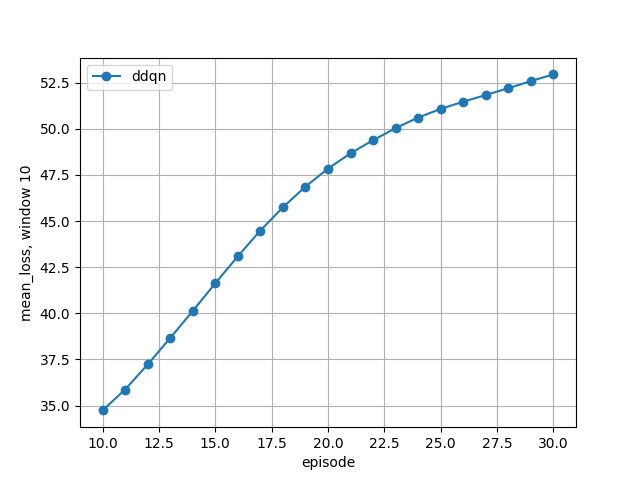
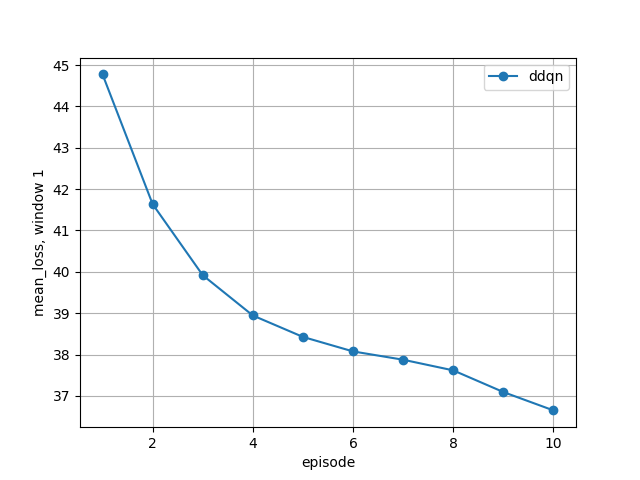
addressed divergence issue

diff --git a/rl/ddqn.py b/rl/ddqn.py
@@ -4,6 +4,7 @@ agent.py
 Defines the RL agent and its associated parameters to train or infer the RL algorithm
 """
 import numpy as np
+import random
 import math
 import csv
 import torch
@@ -30,6 +31,7 @@ class DDQNAgent(nn.Module):
         self.layer1 = nn.Linear(self.n_states, 128)
         self.layer2 = nn.Linear(128, 128)
         self.layer3 = nn.Linear(128, self.n_actions)
+        self.energy_credit_consumed = 0.0    # energy credit consumed initially is 0%
         self.total_flops_offloaded = 0  # captures the cumulative flops offloaded by the ue until now
         self.total_flops = 0    # captures total flops of all layers (static value)
         self.total_flops_on_ue = 0  # captures the cumulative flops computed on the ue until now
@@ -88,10 +90,10 @@ class DDQNAgent(nn.Module):
             state[idx] = flops_per_block[block]
             idx += 1
         # finally, the total flops offloaded until now
-        state[idx] = self.total_flops_offloaded
+        state[idx] = self.energy_credit_consumed
         idx += 1
         # and the total flops on the ue until now
-        state[idx] = self.total_flops_on_ue
+        #state[idx] = self.total_flops_on_ue
         #print(self.total_flops_offloaded)
         state = torch.Tensor(state)
         #print(state)
@@ -102,7 +104,10 @@ class DDQNAgent(nn.Module):
         random_value = np.random.random()
         # agent explores by selecting a random split config
         if self.epsilon > random_value and not self.scenario_params['inference']:
-            selected_split_config = generate_random_split(self.allowed_splits, self.num_nodes)
+            playable_action_indx = [k for k in range(len(playable_actions))]
+            action_idx = random.sample(playable_action_indx, k=1)[0]
+            selected_split_config = playable_actions[action_idx]
+            #selected_split_config = generate_random_split(self.allowed_splits, self.num_nodes)
         # agent exploits the current learned knowledge by selecting the action with the highest Q-value
         elif self.epsilon <= random_value or self.params_config['inference']:
             with torch.no_grad():
@@ -123,24 +128,35 @@ class DDQNAgent(nn.Module):
                                                                       output)
         # check 1) if the energy credit budget is satisfied based on the flops to be offloaded,
         # then check 2) if inference latency is below the allowed limit
-        energy_credit_criteria = self.check_energy_credit_budget(flops_to_be_offloaded)
+        energy_credit_criteria, energy_credit_consumed = self.check_energy_credit_budget(flops_to_be_offloaded)
         latency_criteria = self.check_latency_criteria(inference_time)
         # if yes, then "perform" the split, mark it as a "successful" split, update the flops offloaded
-        # if no, then ue cannot offload any layers to the network, computes everything on its own, mark it as "unsuccessful"
+        # if no, then ue cannot offload any layers to the network, computes everything on its own,
+        # mark it as "unsuccessful", recompute inference time and ue energy for the fallback option
         if energy_credit_criteria and latency_criteria:
             self.success = 1
             self.total_flops_offloaded += flops_to_be_offloaded
+            self.energy_credit_consumed = energy_credit_consumed
         else:
-            self.success = 0
+            self.success = -1
+            # goto fallback option for agent
+            selected_split_config = [(0, 0, 18), (1, 18, 18), (2, 18, 18), (3, 18, 18)]
+            # recompute the inference due to this selected split
+            inference_time, ue_en_comp, ue_en_comm, _ = compute_inference(selected_split_config, dnn_model,
+                                                                          episode_params,
+                                                                          output)
+            # the flops on ue due to this selected split is the total flops
+            flops_on_ue = self.total_flops
         self.total_flops_on_ue += flops_on_ue
-        return inference_time, ue_en_comp, ue_en_comm
+        #print('total flops offloaded {} energy credit consumed {}'.format(self.total_flops_offloaded, self.energy_credit_consumed))
+        return inference_time, ue_en_comp, ue_en_comm, selected_split_config
 
 
     def get_instant_reward(self, inference_time, ue_energy_comp, ue_energy_comm):
         optimization = inference_time + ue_energy_comp + ue_energy_comm
+        #optimization = inference_time + ue_energy_comm
         reward = self.success * optimization
         #print('reward {}'.format(reward))
-        # if the selected split is unsuccessful, immediate reward is 0
         return reward
 
     def get_flops_offloaded(self, selected_split_config, allowed_splits_blocks):
@@ -169,10 +185,12 @@ class DDQNAgent(nn.Module):
 
 
     def check_energy_credit_budget(self, flops_offloaded):
-        if (flops_offloaded + self.total_flops_offloaded) / (self.total_flops + self.total_flops_on_ue) <= self.max_energy_credit / 100:
-            return True
+        energy_credit_consumed = (flops_offloaded + self.total_flops_offloaded) / (self.total_flops + self.total_flops_on_ue)
+        #print('total flops offloaded {} energy credit consumed {}'.format(self.total_flops_offloaded, self.energy_credit_consumed))
+        if energy_credit_consumed <= self.max_energy_credit / 100:
+            return True, energy_credit_consumed
         else:
-            return False
+            return False, 0
 
     def check_latency_criteria(self, inference_time):
         if inference_time <= self.max_inference_latency:

diff --git a/rl/agent.py b/rl/agent.py
@@ -23,7 +23,7 @@ class Agent:
         # initializing class variables that are to be defined later
         self.target_agent = None
         self.episode_count = None
-        self.n_states = 3 * self.num_nodes + 6 + 4
+        self.n_states = 3 * self.num_nodes + 6 + 3
         self.action_space, self.action_indices = enumerate_action_space(self.allowed_splits, self.num_nodes, allow_empty_nodes=True)
         self.n_actions = len(self.action_space)
 
@@ -72,10 +72,9 @@ class Agent:
         action_idx = None
         state = self.agent.get_agent_state(episode_params, self.flops_per_block)
         action = self.agent.choose_action(self.action_space, state)
-        inference_time, ue_en_comp, ue_en_comm = self.agent.perform_action(action, self.allowed_splits_blocks,
+        # this function also checks and returns the feasible action
+        inference_time, ue_en_comp, ue_en_comm, action = self.agent.perform_action(action, self.allowed_splits_blocks,
                                                                            dnn_model, episode_params, output)
-        if not self.agent.success:
-            action = [(0, 0, 18), (1, 18, 18), (2, 18, 18), (3, 18, 18)]
         for k, v in self.action_indices.items():
             if v == action:
                 action_idx = k
@@ -95,7 +94,8 @@ class Agent:
             current_q_values = QValues.get_current(self.agent, s, a)
             next_q_values = QValues.get_next_ddqn(self.agent, self.target_agent, s_prime)
             # normalize reward
-            r = torch.log(1 + torch.abs(r))
+            signed = torch.sign(r)
+            r = signed * torch.log(1 + torch.abs(r))
             target_q_values = (next_q_values * self.agent.discount_factor) + r
             #print(current_q_values)
             #print(target_q_values.unsqueeze(1))

diff --git a/postprocessing/convergence.py b/postprocessing/convergence.py
@@ -10,7 +10,7 @@ from utils.logging_utils import read_single_col_data, return_order, parse_episod
 
 
 def plot_metric(metric, df, outfile, folder):
-    window = 10
+    window = 1
     fig, ax = plt.subplots()
     roll_mean_loss = df[metric].rolling(window=window).mean()
     plt.plot(df['episode'], roll_mean_loss, marker='o', label='ddqn')
@@ -47,8 +47,8 @@ def main():
 
     params = generate_scenario()
     # specify the number of episodes to be plotted
-    n_episodes = 30
-    order_to_convert = 100
+    n_episodes = 10
+    order_to_convert = 10
     generate_metric(params, n_episodes, order_to_convert, 'mean_loss')
     generate_metric(params, n_episodes, order_to_convert, 'mean_reward')
 

diff --git a/rl/generate_model_params.py b/rl/generate_model_params.py
@@ -6,7 +6,7 @@ from utils.action_space import enumerate_action_space
 
 allowed_splits = [0, 3, 6, 10, 14, 18]  # Safe boundaries (post-MaxPool layers)
 n_nodes = 4
-n_states = 22
+n_states = 21
 actions, action_indices = enumerate_action_space(allowed_splits, n_nodes, allow_empty_nodes=True)
 n_actions = len(actions)
 print(actions)
